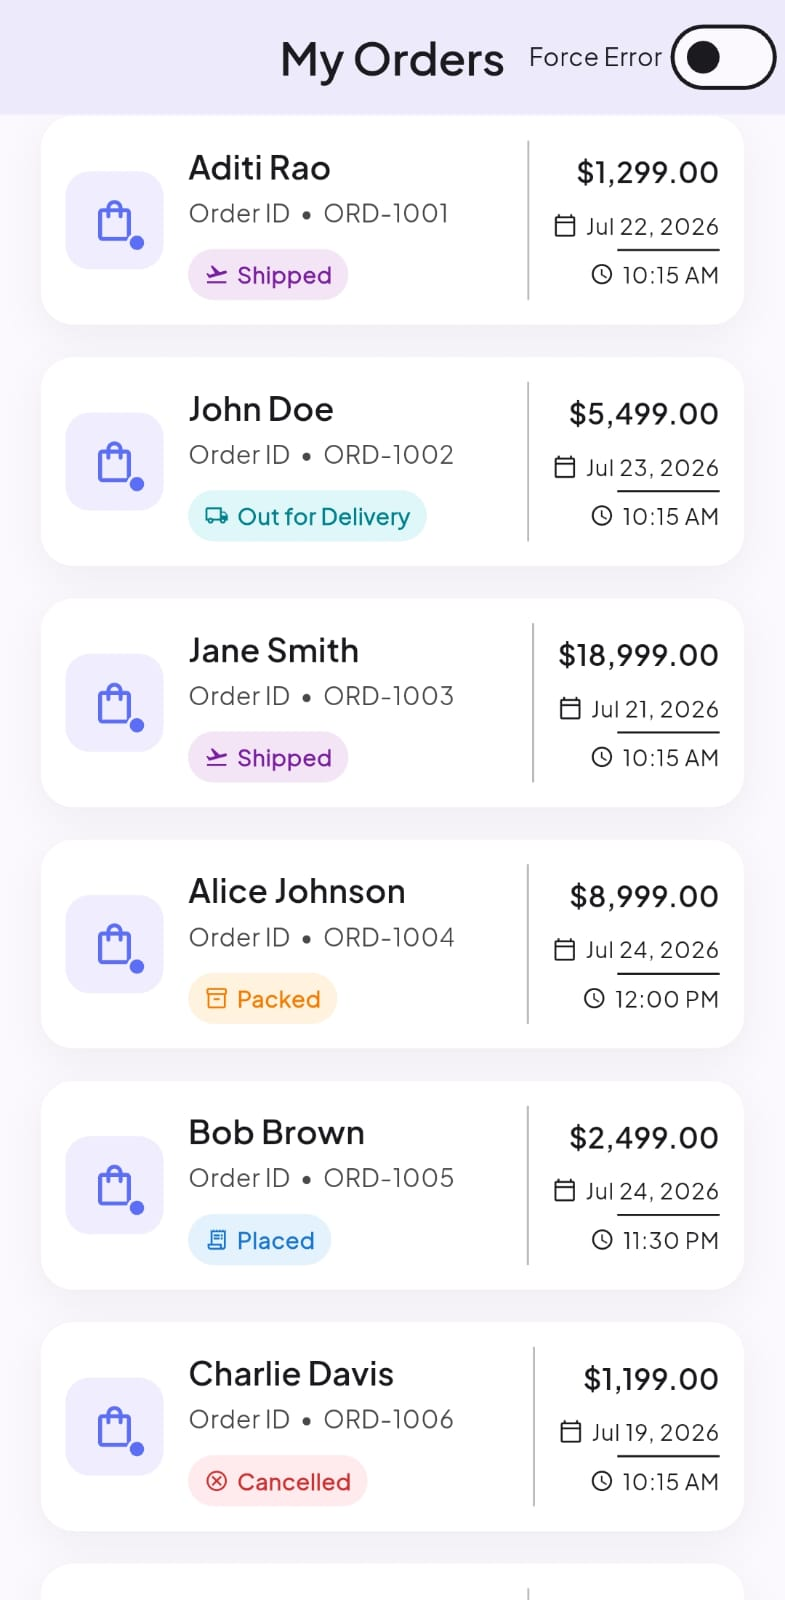
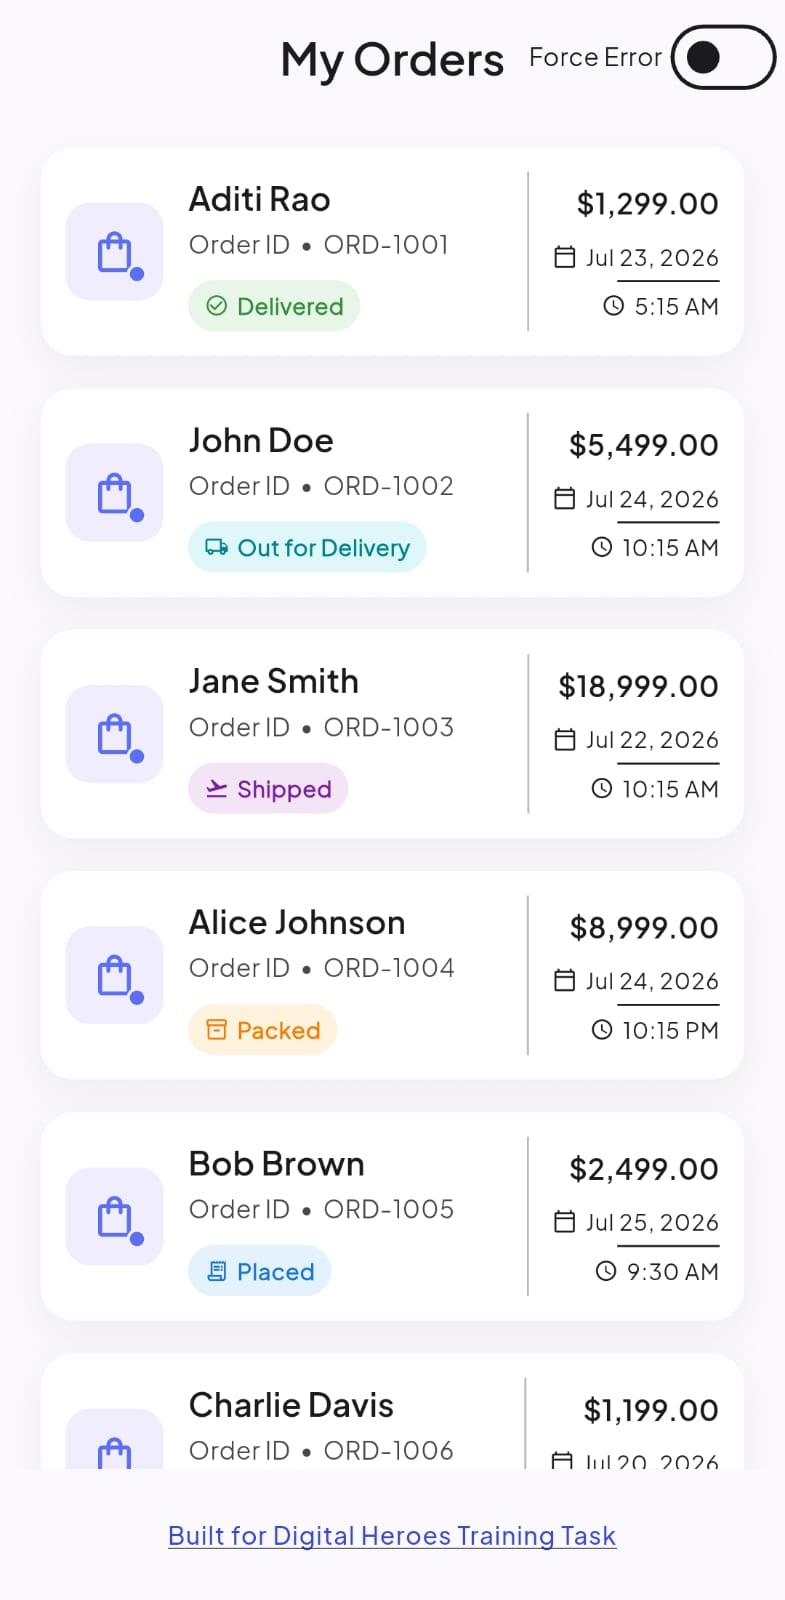
docs: add error state screenshot and rewrite README with edge-case documentation

diff --git a/README.md b/README.md
@@ -21,15 +21,19 @@
 ## 📱 Screenshots
 
 <p align="center">
-  <img src="assets/screen_1.jpeg" width="300" alt="Orders List Screen"/>
-  &nbsp;&nbsp;&nbsp;&nbsp;
-  <img src="assets/screen_2.jpeg" width="300" alt="Order Detail Screen"/>
+  <img src="assets/screen_1.jpeg" width="250" alt="Orders List Screen"/>
+  &nbsp;&nbsp;
+  <img src="assets/screen_2.jpeg" width="250" alt="Order Detail Screen"/>
+  &nbsp;&nbsp;
+  <img src="assets/screen_3.jpeg" width="250" alt="Error State Screen"/>
 </p>
 
 <p align="center">
-  <em>Orders List — Color-coded status chips</em>
-  &nbsp;&nbsp;&nbsp;&nbsp;&nbsp;&nbsp;&nbsp;&nbsp;&nbsp;&nbsp;&nbsp;&nbsp;&nbsp;&nbsp;&nbsp;&nbsp;&nbsp;&nbsp;&nbsp;&nbsp;
-  <em>Order Detail — Live tracking timeline</em>
+  <em>Orders List</em>
+  &nbsp;&nbsp;&nbsp;&nbsp;&nbsp;&nbsp;&nbsp;&nbsp;&nbsp;&nbsp;&nbsp;&nbsp;&nbsp;&nbsp;&nbsp;&nbsp;&nbsp;&nbsp;&nbsp;&nbsp;&nbsp;&nbsp;&nbsp;&nbsp;&nbsp;&nbsp;
+  <em>Order Detail</em>
+  &nbsp;&nbsp;&nbsp;&nbsp;&nbsp;&nbsp;&nbsp;&nbsp;&nbsp;&nbsp;&nbsp;&nbsp;&nbsp;&nbsp;&nbsp;&nbsp;&nbsp;&nbsp;&nbsp;&nbsp;&nbsp;&nbsp;&nbsp;&nbsp;
+  <em>Error State</em>
 </p>
 
 ---
@@ -38,15 +42,30 @@
 
 | Feature | Description |
 |---|---|
-| **REST API Integration** | Fetches live order data from a remote MockAPI endpoint using Dio |
+| **REST API Integration** | Fetches live order data from a remote mock API endpoint using Dio |
 | **State Management** | Robust Riverpod-based architecture with `Notifier` providers |
 | **Real-time Connectivity** | Detects online/offline status and displays a persistent banner |
-| **Error Handling** | Graceful error states with retry functionality and a "Force Error" toggle for testing |
-| **Pull-to-Refresh** | Swipe down to reload the latest order data |
+| **Graceful Error Handling** | Full-screen error state with a Retry button; includes a built-in "Force Error" toggle to deliberately trigger and demonstrate the error flow |
+| **Pull-to-Refresh** | Swipe down to reload the latest order data from the API |
 | **Animated Timeline** | Staggered drop-down animation on the tracking history with dotted/solid progress lines |
 | **Dynamic Status Chips** | Each order status (Placed, Packed, Shipped, Out for Delivery, Delivered, Cancelled) has a unique color palette and icon |
+| **Loading & Empty States** | Dedicated UI for initial loading spinner and empty order list |
 | **Custom Splash Screen** | Branded splash screen with the app logo on launch |
 | **Material Design 3** | Follows Google's latest MD3 design language with soft drop shadows and modern typography |
+
+---
+
+## 🔴 Error & Edge-Case Handling
+
+The app is built to handle every edge case gracefully:
+
+| Scenario | Behavior |
+|---|---|
+| **API Failure** | Displays a full-screen error view with an error icon, descriptive message, and a **Retry** button (see Screenshot 3) |
+| **Network Offline** | A persistent red banner slides in: *"You're offline — showing last loaded orders"* |
+| **Network Recovery** | Banner automatically dismisses and data refreshes |
+| **Empty Response** | Dedicated empty-state screen with an icon and message |
+| **Force Error Toggle** | Built-in developer toggle in the app bar to deliberately simulate a server failure for demo and testing purposes |
 
 ---
 
@@ -60,11 +79,11 @@ lib/
 ├── providers/
 │   └── order_provider.dart    # Riverpod state management (Notifier + connectivity)
 ├── screens/
-│   ├── splash_screen.dart     # Animated splash screen
+│   ├── splash_screen.dart     # Branded splash screen
 │   ├── orders_list_screen.dart # Main list view with pull-to-refresh
 │   └── order_detail_screen.dart # Detailed order view with tracking timeline
 ├── services/
-│   └── api_service.dart       # REST API layer (Dio HTTP client + mock fallback)
+│   └── api_service.dart       # REST API layer (Dio HTTP client)
 ├── theme/
 │   └── app_theme.dart         # Material 3 theme tokens (colors, typography, shapes)
 ├── utils/
@@ -118,35 +137,34 @@ flutter build apk --release
 
 ---
 
-## 🔌 API Configuration
+## 🔌 Mock API
 
-The app fetches order data from a REST API endpoint. The API URL is configured in:
+The app fetches order data from a JSON file hosted on GitHub, acting as a mock REST API:
 
-```
-lib/services/api_service.dart → kApiUrl
-```
+**Mock API URL:** [`https://raw.githubusercontent.com/Nikesh1626/Order-Tracker/main/mock_api.json`](https://raw.githubusercontent.com/Nikesh1626/Order-Tracker/main/mock_api.json)
 
-The app includes a **built-in mock data fallback** — if the API endpoint is unreachable, it automatically serves hardcoded sample data so the app always remains functional for demonstration purposes.
+The JSON contains **8 seeded orders** with fields: `id`, `customer`, `items`, `amount`, `status`, `placed_at`, and `status_history`.
 
 ---
 
 ## 🧪 Testing Error & Offline States
 
 ### Force Error Mode
-Toggle the **"Force Error"** switch in the app bar to simulate a server failure. The app will display a graceful error screen with a **Retry** button.
+Toggle the **"Force Error"** switch in the top-right corner of the app bar. The app will immediately display a graceful full-screen error view with a **Retry** button (as shown in Screenshot 3 above).
 
 ### Offline Mode
 Turn on **Airplane Mode** or disable Wi-Fi/Mobile Data on your device. The app will:
-- Instantly show a red **"You are currently offline"** banner
+- Instantly show a red **"You're offline"** banner
 - Preserve previously loaded data on screen
 - Automatically recover and dismiss the banner when connectivity is restored
 
 ---
 
-## 📦 Project Highlights
+## 📦 Project Highlights (For Recruiters)
 
 - **Clean Architecture** — Separation of concerns across models, services, providers, and UI layers
-- **Production Patterns** — Includes error boundaries, connectivity listeners, graceful degradation, and loading states
+- **Production Patterns** — Error boundaries, connectivity listeners, graceful degradation, loading/empty/error states
+- **Deliberate Error Testing** — Built-in Force Error toggle to demonstrate error handling without breaking production code
 - **No Third-Party UI Libraries** — All UI components (timeline, cards, chips) are hand-built with Flutter's widget system
 - **Zero Lint Issues** — Fully passes `flutter analyze` with zero warnings
 - **Modern Dart** — Uses null safety, pattern matching, and Dart 3 features
